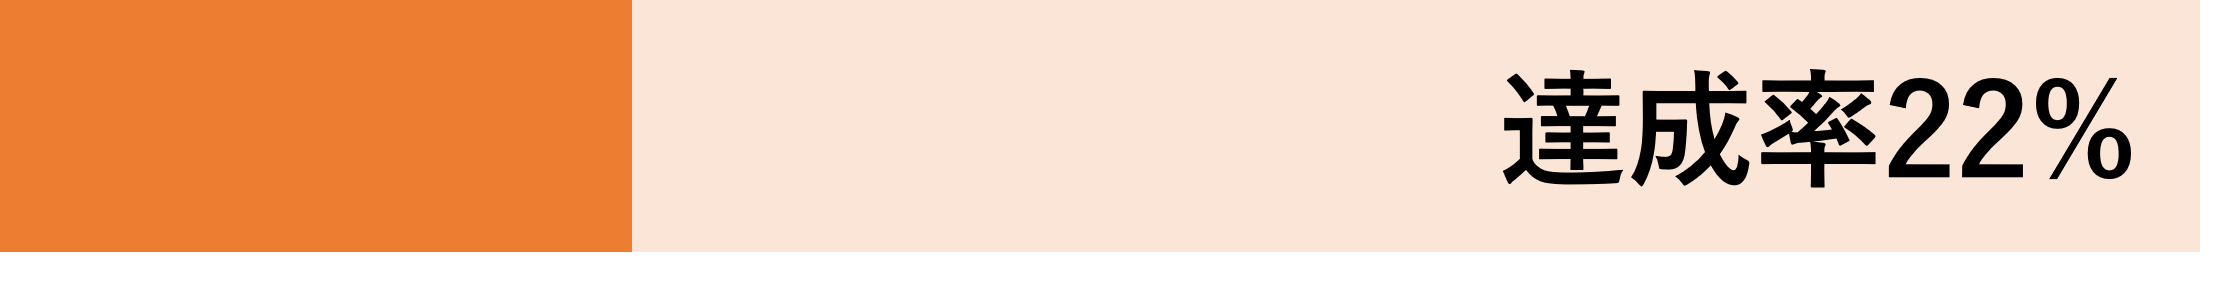
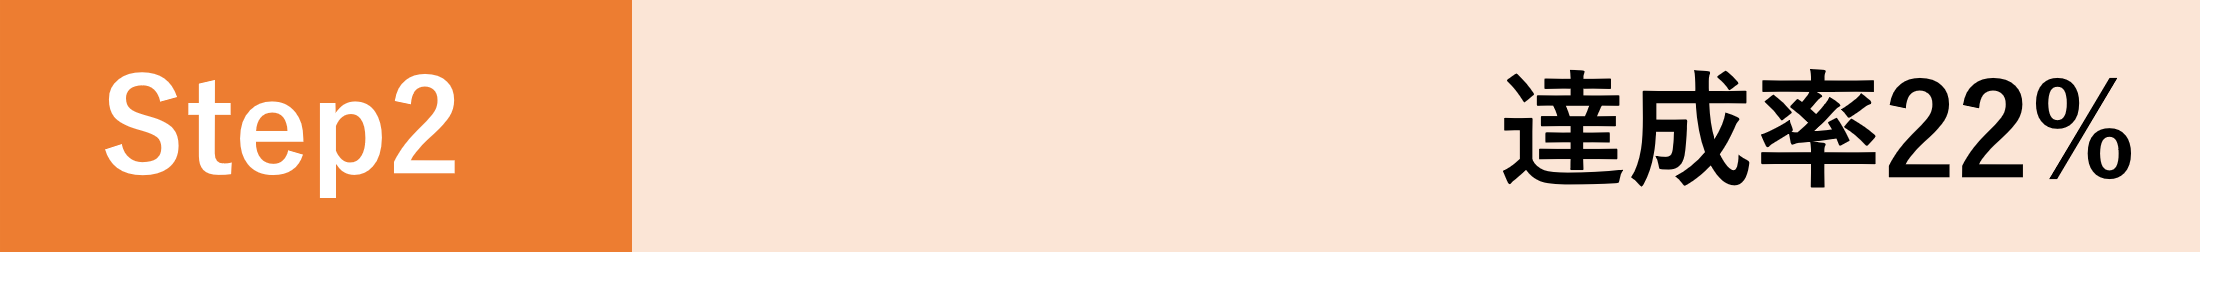
yoko haba

Changed region(s): [[0.0312, 0.2474, 0.2181, 0.6804]]

diff --git a/Basen_new1/index.html b/Basen_new1/index.html
@@ -28,11 +28,45 @@
     </div>
 
 
-<iframe width="20%" height="500"
+<style>
+details {
+  border: 1px solid #aaa;
+  padding: 0.5em 0.5em 0;
+}
+
+.ou_wn{
+position: absolute;
+width: 19%;
+left: 0%;
+}
+
+.ou_wn2{
+position: absolute;
+width: 19%;
+left: 81%;
+}
+
+</style>
+
+<div class="ou_wn">
+<details open>
+  <summary><span class="detail"><b><font color="darkgreen">このミュージアムを応援する</font></b></span></summary>
+<iframe width="100%" height="500px"
   src="https://virtualion.github.io/muse2000web/funding.html"
 >
 </iframe>
+</details>
+</div>
 
+<div class="ou_wn2">
+<details>
+  <summary><span class="detail"><b><font color="darkblue">ご提供者</font></b></span></summary>
+<iframe width="100%" height="500px"
+  src="https://virtualion.github.io/muse2000web/teikyosha_mini.html"
+>
+</iframe>
+</details>
+</div>
 
     <script>
       var buildUrl = "Build";

diff --git a/funding.html b/funding.html
@@ -37,26 +37,26 @@ margin: 10px 10px 10px 10px;
 
 .ouen{
 background-color: EEEEEE;
-width:220px;
+width:200px;
 }
 
 </style>
 
 
-<font color="green">このミュージアムを応援する</font>
 
 <div class="ouen">
 <p>
 あと<font color="blue">$50,340</font>で<br>次のアップデート
 <br>
-<img src="images/bar.png" width="200px"><br>
+<img src="images/bar0.png" width="180px"><br>
+<img src="images/bar.png" width="180px"><br>
 </p>
 </div>
 
 <p>
 これまでの応援：<br>
 <font color="darkgreen">合計3団体または個人、総額$12,030</font><br>
-ファーストステップをクリア済み
+Step 1をクリア済み
 </p>
 <br>
 <p>個人向けプラン<br><font size="1"><br></font>

diff --git a/teikyosha_mini.html b/teikyosha_mini.html
@@ -1,9 +1,15 @@
 <html>
 <head>    <meta charset="utf-8">
 <title>提供者</title></head><body>
-<b>ご覧のみずほキャピタルミュージアムは以下の皆様によって提供されています。</b>
+<b>ご覧のミュージアムは以下の皆様によって提供されています。</b>
 
 <style>
+body {
+    font-family:  "ヒラギノ角ゴ ProN W3", HiraKakuProN-W3, 游ゴシック, "Yu Gothic", メイリオ, Meiryo, Verdana, Helvetica, Arial, sans-serif;
+  font-weight: bold;
+  background: #e6e8f0;
+}
+
 
 ul, ol {
   padding: 0;

diff --git a/Basen_new1/TemplateData/style.css b/Basen_new1/TemplateData/style.css
@@ -3,6 +3,12 @@ body {
     margin: 0
 }
 
+body {
+    font-family:  "ヒラギノ角ゴ ProN W3", HiraKakuProN-W3, 游ゴシック, "Yu Gothic", メイリオ, Meiryo, Verdana, Helvetica, Arial, sans-serif;
+  font-weight: bold;
+  background: #EEEEEE;
+}
+
 #unity-container {
 
 }
@@ -10,7 +16,7 @@ body {
     #unity-container.unity-desktop {
             position: absolute;
         background: #DDDDDD;
-	width: min(60vw, 132vw);
+	width: min(60vw, 132vh);
 	border: solid;
 	height: 90vh;
         left: 50%;

diff --git a/kessai.html b/kessai.html
@@ -24,7 +24,7 @@ body {
 position: absolute;
 text-align:cener;
 left: 50%;
-        transform: translate(-50%, 0%)
+        transform: translate(-50%, -10%)
 }
 
 .mongon{

diff --git a/kessai2.html b/kessai2.html
@@ -24,7 +24,7 @@ body {
 position: absolute;
 text-align:cener;
 left: 50%;
-        transform: translate(-50%, 0%)
+        transform: translate(-50%, -10%)
 }
 
 .mongon{
